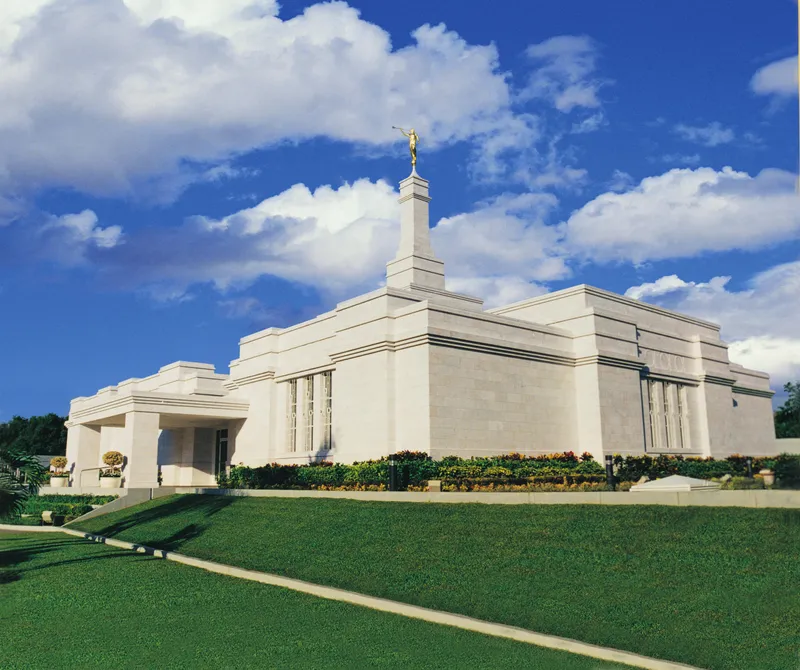
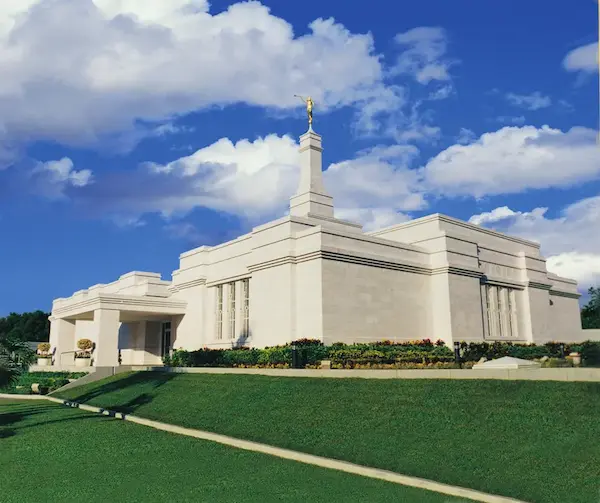
Para envio

diff --git a/templos.html b/templos.html
@@ -21,16 +21,15 @@
     <div class="header-container">
         <h1>Álbum do Templo</h1>
         <button id="menu" aria-label="Abrir Menu"></button>
-       <nav class="navigation">
-            <a href="index.html"> Página Inicial </a>
-            <a href="antigo.html"> Antigo </a>
-            <a href="novo.html"> Novo </a>
-            <a href="grande.html"> Grande </a>
-            <a href="pequeno.html"> Pequeno </a>
+        <nav class="navigation">
+            <a href="index.html">Página Inicial</a>
+            <a href="antigo.html">Antigo</a>
+            <a href="novo.html">Novo</a>
+            <a href="grande.html">Grande</a>
+            <a href="pequeno.html">Pequeno</a>
         </nav>
     </div>
 </header>
-
 <main>
     <h2>Templos do Mundo</h2>
     <section class="gallery">